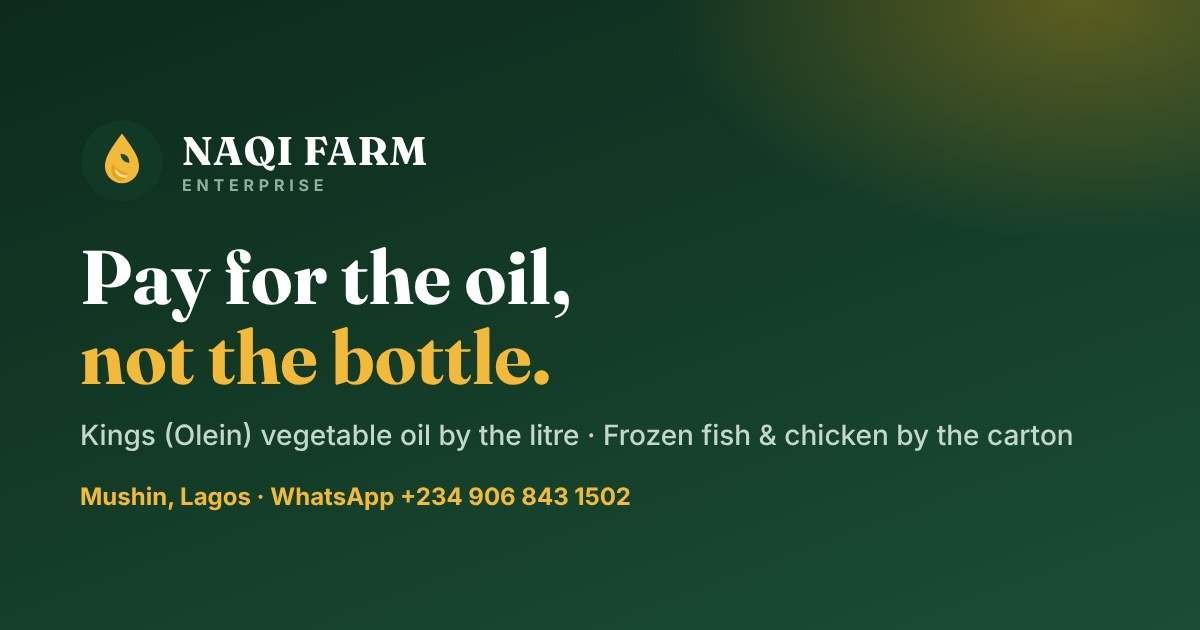
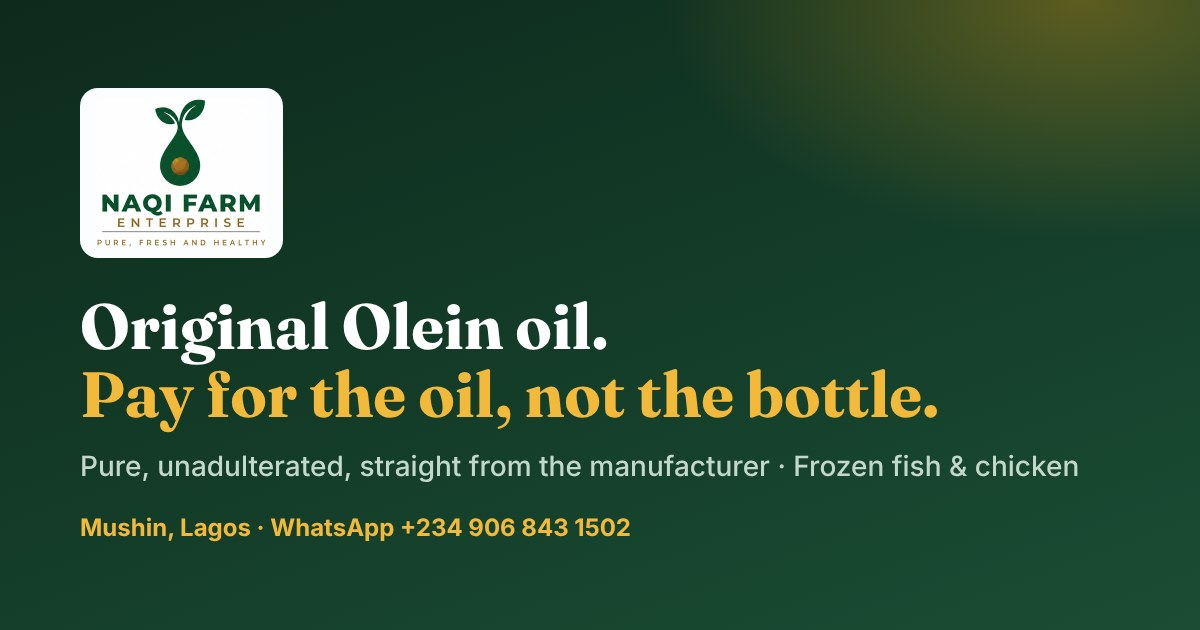
Add files via upload

Changed region(s): [[0.0617, 0.1206, 0.8942, 0.8746]]

diff --git a/assets/css/styles.css b/assets/css/styles.css
@@ -17,6 +17,8 @@
   --line: #dfe6e1;
   --bg: #fbfaf6;
   --white: #ffffff;
+  --logo-green: #0c522d;
+  --logo-gold: #8f6a25;
   --wa: #25d366;
   --wa-dark: #1da851;
 
@@ -94,18 +96,22 @@ p { margin: 0 0 1em; }
 
 .site-header {
   position: sticky; top: 0; z-index: 50;
-  background: rgba(251, 250, 246, 0.94);
+  background: rgba(252, 253, 255, 0.97);
   backdrop-filter: saturate(140%) blur(8px);
   border-bottom: 1px solid var(--line);
 }
 .site-header .container {
-  display: flex; align-items: center; justify-content: space-between; min-height: 68px; gap: 12px;
+  display: flex; align-items: center; justify-content: space-between; min-height: 76px; gap: 12px;
 }
+.brand-logo { display: block; height: 64px; width: auto; }
+@media (min-width: 960px) { .site-header .container { min-height: 92px; } .brand-logo { height: 80px; } }
+.footer-logo { display: inline-block; background: #fcfdff; border-radius: 14px; padding: 8px 12px; margin-bottom: 16px; }
+.footer-logo img { display: block; height: 104px; width: auto; }
 .brand { display: flex; align-items: center; gap: 10px; text-decoration: none; color: var(--green-900); }
-.brand-mark { width: 40px; height: 40px; flex: none; }
+.brand-mark { width: auto; height: 44px; flex: none; }
 .brand-text { display: flex; flex-direction: column; line-height: 1.05; }
-.brand-name { font-family: var(--font-display); font-weight: 700; font-size: 1.2rem; letter-spacing: 0.02em; }
-.brand-sub { font-size: 0.66rem; letter-spacing: 0.22em; text-transform: uppercase; color: var(--muted); font-weight: 600; }
+.brand-name { font-family: "Montserrat", var(--font-body); font-weight: 800; font-size: 1.22rem; letter-spacing: 0.01em; color: var(--logo-green); }
+.brand-sub { font-family: "Montserrat", var(--font-body); font-size: 0.66rem; letter-spacing: 0.34em; text-transform: uppercase; color: var(--logo-gold); font-weight: 600; margin-top: 2px; }
 
 .nav-toggle {
   display: inline-flex; align-items: center; justify-content: center;
@@ -116,7 +122,7 @@ p { margin: 0 0 1em; }
 
 .site-nav {
   position: absolute; left: 0; right: 0; top: 100%;
-  background: var(--bg); border-bottom: 1px solid var(--line);
+  background: #fcfdff; border-bottom: 1px solid var(--line);
   display: none; padding: 8px 16px 18px;
 }
 .site-nav.open { display: block; }
@@ -390,8 +396,12 @@ p { margin: 0 0 1em; }
 .footer-grid { display: grid; gap: 32px; }
 @media (min-width: 800px) { .footer-grid { grid-template-columns: 1.4fr 1fr 1fr 1.2fr; } }
 .footer-grid ul { list-style: none; padding: 0; margin: 0; display: grid; gap: 8px; }
-.site-footer .brand { color: var(--white); margin-bottom: 14px; }
-.site-footer .brand-sub { color: #8fb19c; }
+.site-footer .brand { color: var(--white); margin-bottom: 10px; }
+.site-footer .brand-name { color: var(--white); }
+.site-footer .brand-sub { color: var(--gold-400); }
+.brand-badge { width: 52px; height: 52px; border-radius: 50%; background: #fff; display: grid; place-items: center; flex: none; }
+.brand-badge .brand-mark { height: 38px; }
+.brand-tagline { font-family: "Montserrat", var(--font-body); font-size: 0.72rem; letter-spacing: 0.24em; text-transform: uppercase; color: var(--gold-400); font-weight: 600; margin: 0 0 12px; }
 .tagline { font-family: var(--font-display); color: var(--gold-400); font-size: 1.1rem; }
 .socials { display: flex; gap: 10px; margin-top: 14px; }
 .socials a { width: 42px; height: 42px; border-radius: 50%; display: grid; place-items: center; background: rgba(255,255,255,0.08); }
